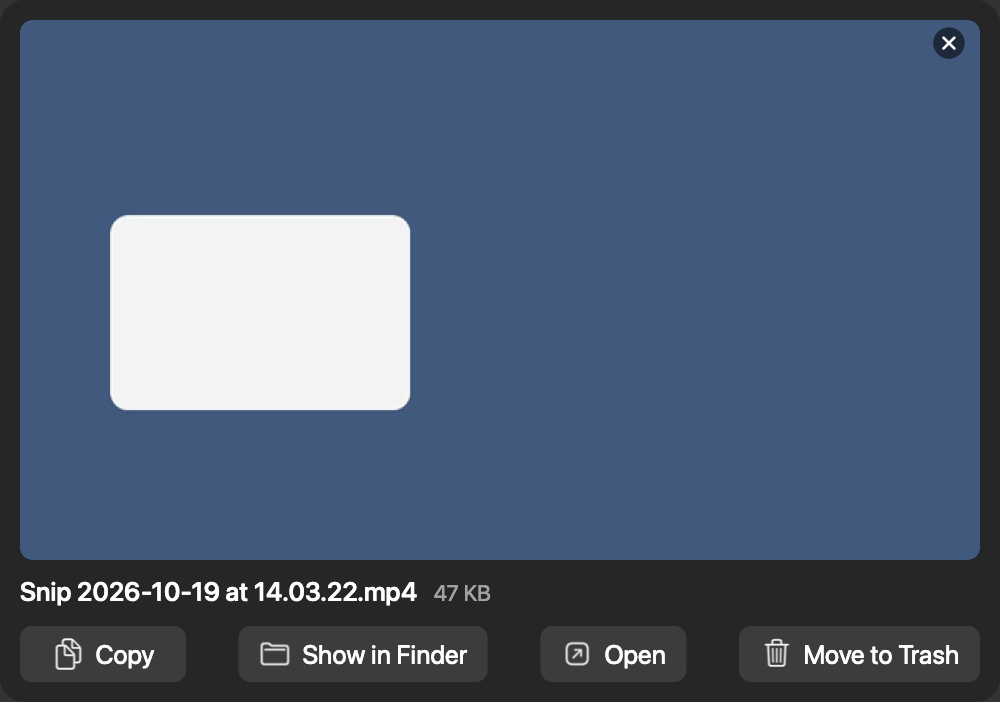
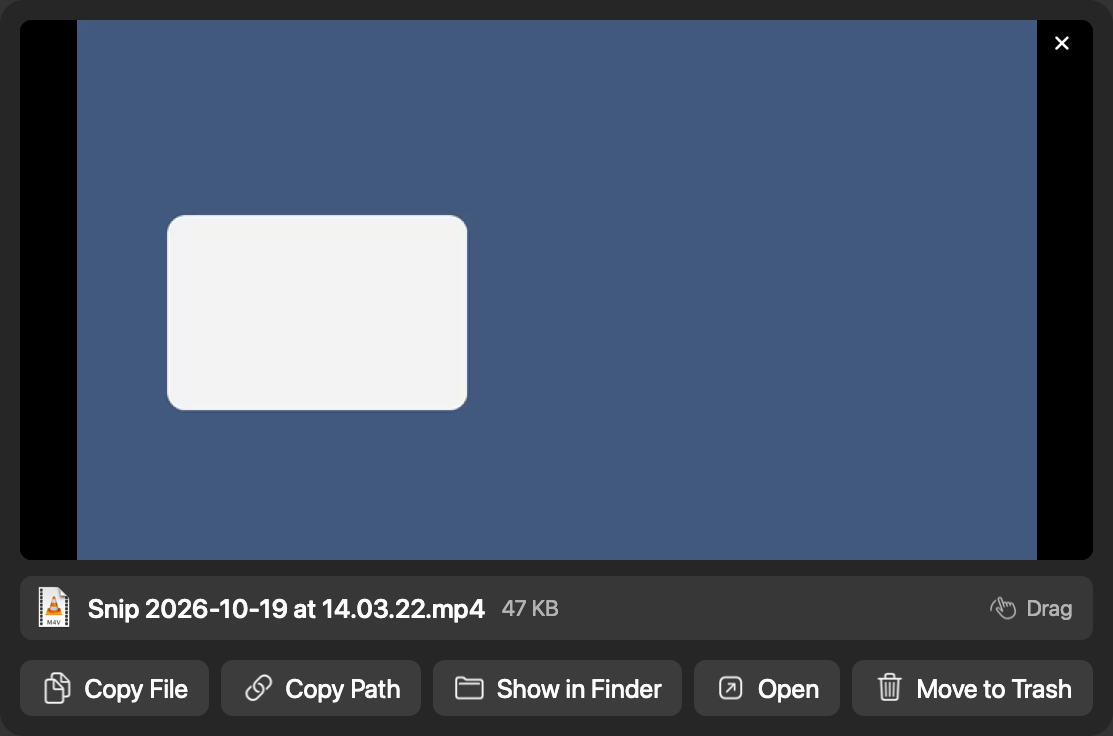
After-recording panel: Copy Path and a draggable file chip
- Copy Path puts the recording's full path on the clipboard as text; Copy is now Copy File
- The name and size row is a chip to drag the file straight into another app or a Finder
  folder (a copy), with an open-hand cursor and a "Drag" hint, so Finder isn't needed
- The video's drag and the chip share one drag source
- README: describe both, and re-render the after-recording image; its crop now finds the
  video by mostly-blue rows and columns, so the chip's icon isn't taken for video

Work item #2450

Changed region(s): [[0.0, 0.0299, 0.992, 0.8675], [0.217, 0.8974, 0.961, 0.9573], [0.031, 0.8974, 0.186, 0.9573]]

diff --git a/Sources/SnipUI/DonePanel.swift b/Sources/SnipUI/DonePanel.swift
@@ -2,8 +2,8 @@ import AppKit
 import AVKit
 import SnipCore
 
-/// After a recording: the video ready to play, its name and size, and Copy, Show in Finder, Open,
-/// Move to Trash. Floats beside the recorded area until ×, Escape or the next recording.
+/// After a recording: the video ready to play, the file to drag out, and Copy File, Copy Path, Show
+/// in Finder, Open, Move to Trash. Floats beside the recorded area until ×, Escape or the next recording.
 @MainActor
 final class DonePanel: NSObject {
     /// Becomes key when clicked, without activating Snip, so Escape reaches it.
@@ -147,13 +147,14 @@ final class DonePanel: NSObject {
     }
 }
 
-/// The panel's content: the video, its name and size, the fallback note if any, and the buttons.
+/// The panel's content: the video, the file chip (its name and size, dragged to drag the file), the
+/// fallback note if any, and the buttons.
 /// Built from a file alone, so it can be rendered off-screen:
 ///
 ///     let view = DonePanelView(file: url, videoSize: await DonePanelView.videoSize(of: url))
 ///     view.frame.size = view.fittingSize
 ///
-/// Dragging it anywhere but the preview and buttons drags its window.
+/// Dragging it anywhere but the preview, the file chip and the buttons drags its window.
 @MainActor
 final class DonePanelView: NSVisualEffectView {
     /// After × or Move to Trash.
@@ -165,8 +166,10 @@ final class DonePanelView: NSVisualEffectView {
     private let player: AVPlayer
     private let ui: UIScale
     private let preview: PreviewView
-    private let copyButton: ActionButton
-    private var copiedReset: Task<Void, Never>?
+    private let chip: FileChip
+    private let copyFileButton: ActionButton
+    private let copyPathButton: ActionButton
+    private var copiedReset: [ObjectIdentifier: Task<Void, Never>] = [:]
 
     /// `videoSize`: the recording's size in pixels, for its aspect ratio (see `videoSize(of:)`).
     /// `player`: one already playing `file`, to keep its position; by default a new one.
@@ -177,10 +180,15 @@ final class DonePanelView: NSVisualEffectView {
         let ui = scale ?? .current
         let player = player ?? AVPlayer(url: file)
         // The buttons first: their row sets the panel's narrowest width.
-        let copy = ActionButton(title: "Copy", symbol: "doc.on.doc", reserving: "Copied", ui: ui)
-        copyButton = copy
+        let copyFile = ActionButton(title: Self.copyFileLabel.title, symbol: Self.copyFileLabel.symbol,
+                                    reserving: "Copied", ui: ui)
+        let copyPath = ActionButton(title: Self.copyPathLabel.title, symbol: Self.copyPathLabel.symbol,
+                                    reserving: "Copied", ui: ui)
+        copyFileButton = copyFile
+        copyPathButton = copyPath
         let actions: [(ActionButton, Selector)] = [
-            (copy, #selector(DonePanelView.copyFile)),
+            (copyFile, #selector(DonePanelView.copyFile)),
+            (copyPath, #selector(DonePanelView.copyPath)),
             (ActionButton(title: "Show in Finder", symbol: "folder", ui: ui), #selector(DonePanelView.showInFinder)),
             (ActionButton(title: "Open", symbol: "arrow.up.forward.app", ui: ui), #selector(DonePanelView.openFile)),
             (ActionButton(title: "Move to Trash", symbol: "trash", ui: ui), #selector(DonePanelView.moveToTrash)),
@@ -194,6 +202,7 @@ final class DonePanelView: NSVisualEffectView {
         self.player = player
         self.ui = ui
         preview = PreviewView(file: file, player: player, ui: ui)
+        chip = FileChip(file: file, size: Self.formattedSize(of: file), ui: ui)
         super.init(frame: .zero)
 
         material = .hudWindow
@@ -206,24 +215,13 @@ final class DonePanelView: NSVisualEffectView {
 
         preview.onClose = { [weak self] in self?.onClose?() }
 
-        let name = NSTextField(labelWithString: file.lastPathComponent)
-        name.font = ui.font(13, weight: .medium)
-        name.lineBreakMode = .byTruncatingMiddle
-        name.setContentCompressionResistancePriority(.defaultLow, for: .horizontal)
-        let bytes = NSTextField(labelWithString: Self.formattedSize(of: file))
-        bytes.font = ui.font(11)
-        bytes.textColor = .secondaryLabelColor
-        bytes.setContentCompressionResistancePriority(.required, for: .horizontal)
-        let info = NSStackView(views: [name, bytes])
-        info.alignment = .firstBaseline
-        info.spacing = ui.metric(8)
 
         for (button, action) in actions {
             button.target = self
             button.action = action
         }
 
-        var rows: [NSView] = [preview, info]
+        var rows: [NSView] = [preview, chip]
         if let note {
             let label = NSTextField(wrappingLabelWithString: note)
             label.font = ui.font(11)
@@ -304,7 +302,7 @@ final class DonePanelView: NSVisualEffectView {
 
     override func hitTest(_ point: NSPoint) -> NSView? {
         guard let hit = super.hitTest(point) else { return nil }
-        return hit is NSButton || hit.isDescendant(of: preview) ? hit : self
+        return hit is NSButton || hit.isDescendant(of: preview) || hit.isDescendant(of: chip) ? hit : self
     }
 
     override func acceptsFirstMouse(for event: NSEvent?) -> Bool { true }
@@ -315,17 +313,34 @@ final class DonePanelView: NSVisualEffectView {
 
     // MARK: Buttons
 
-    /// Puts the file on the pasteboard, and says "Copied" on the button for a moment.
+    private static let copyFileLabel = (title: "Copy File", symbol: "doc.on.doc")
+    private static let copyPathLabel = (title: "Copy Path", symbol: "link")
+
+    /// Puts the file itself on the pasteboard, to paste into Finder, Slack or Mail.
     @objc private func copyFile() {
         let pasteboard = NSPasteboard.general
         pasteboard.clearContents()
         pasteboard.writeObjects([file as NSURL])
-        copyButton.show(title: "Copied", symbol: "checkmark")
-        copiedReset?.cancel()
-        copiedReset = Task { [weak self] in
+        showCopied(on: copyFileButton, then: Self.copyFileLabel)
+    }
+
+    /// Puts the file's full path on the pasteboard as text, to paste into a terminal or a chat.
+    @objc private func copyPath() {
+        let pasteboard = NSPasteboard.general
+        pasteboard.clearContents()
+        pasteboard.setString(file.path, forType: .string)
+        showCopied(on: copyPathButton, then: Self.copyPathLabel)
+    }
+
+    /// Says "Copied" on `button` for a moment, then puts its own label back.
+    private func showCopied(on button: ActionButton, then label: (title: String, symbol: String)) {
+        button.show(title: "Copied", symbol: "checkmark")
+        let key = ObjectIdentifier(button)
+        copiedReset[key]?.cancel()
+        copiedReset[key] = Task { [weak button] in
             try? await Task.sleep(for: .seconds(1.5))
-            guard !Task.isCancelled, let self else { return }
-            copyButton.show(title: "Copy", symbol: "doc.on.doc")
+            guard !Task.isCancelled, let button else { return }
+            button.show(title: label.title, symbol: label.symbol)
         }
     }
 
@@ -467,7 +482,8 @@ private final class PreviewView: NSView {
         close.isBordered = false
         close.toolTip = "Close"
 
-        let dragArea = FileDragArea(file: file, player: player, ui: ui)
+        let dragArea = FileDragView(file: file, ui: ui)
+        dragArea.onClick = { Self.togglePlayback(player) }
         // In this order, so the × is on top of the drag area and the drag area on top of the video.
         for view in [playerView, dragArea, close] {
             view.translatesAutoresizingMaskIntoConstraints = false
@@ -505,23 +521,33 @@ private final class PreviewView: NSView {
     }
 
     @objc private func closeClicked() { onClose?() }
+
+    private static func togglePlayback(_ player: AVPlayer) {
+        guard player.rate == 0 else {
+            player.pause()
+            return
+        }
+        if let item = player.currentItem, item.duration.isNumeric, item.currentTime() >= item.duration {
+            player.seek(to: .zero)
+        }
+        player.play()
+    }
 }
 
-/// Over the video: a click plays or pauses, a drag drags the file itself (as a file URL), so it
-/// drops into Finder, Slack, Mail or a browser upload.
+/// A drag drags the file itself (as a file URL), so it drops into Finder, Slack, Mail or a browser
+/// upload; a click calls `onClick`. Over the video, and under the file chip.
 @MainActor
-private final class FileDragArea: NSView, NSDraggingSource {
-    private let file: URL
-    private let player: AVPlayer
-    private let ui: UIScale
+private class FileDragView: NSView, NSDraggingSource {
+    var onClick: (() -> Void)?
+    let file: URL
+    let ui: UIScale
     /// The mouse-down of a click or drag in progress.
     private var mouseDownEvent: NSEvent?
     /// The first frame, for the drag image.
     private var thumbnail: NSImage?
 
-    init(file: URL, player: AVPlayer, ui: UIScale) {
+    init(file: URL, ui: UIScale) {
         self.file = file
-        self.player = player
         self.ui = ui
         super.init(frame: .zero)
         Task { [weak self] in
@@ -559,22 +585,109 @@ private final class FileDragArea: NSView, NSDraggingSource {
     override func mouseUp(with event: NSEvent) {
         guard mouseDownEvent != nil else { return }
         mouseDownEvent = nil
-        togglePlayback()
+        onClick?()
     }
 
     func draggingSession(_ session: NSDraggingSession, sourceOperationMaskFor context: NSDraggingContext) -> NSDragOperation {
         // A copy, so dropping into a Finder folder never moves the recording out of the output folder.
         context == .outsideApplication ? .copy : []
     }
+}
 
-    private func togglePlayback() {
-        guard player.rate == 0 else {
-            player.pause()
-            return
-        }
-        if let item = player.currentItem, item.duration.isNumeric, item.currentTime() >= item.duration {
-            player.seek(to: .zero)
-        }
-        player.play()
+/// The file as something to pick up: its icon, name and size on a rounded fill, with an open hand
+/// under the pointer. Drag it into another app instead of going through Finder.
+@MainActor
+private final class FileChip: FileDragView {
+    private var hovering = false {
+        didSet { needsDisplay = true }
+    }
+
+    init(file: URL, size: String, ui: UIScale) {
+        super.init(file: file, ui: ui)
+        let icon = NSImageView(image: NSWorkspace.shared.icon(forFile: file.path))
+        icon.imageScaling = .scaleProportionallyUpOrDown
+        let name = NSTextField(labelWithString: file.lastPathComponent)
+        name.font = ui.font(13, weight: .medium)
+        name.lineBreakMode = .byTruncatingMiddle
+        name.setContentCompressionResistancePriority(.defaultLow, for: .horizontal)
+        let bytes = NSTextField(labelWithString: size)
+        bytes.font = ui.font(11)
+        bytes.textColor = .secondaryLabelColor
+        bytes.setContentCompressionResistancePriority(.required, for: .horizontal)
+        let hand = NSImageView()
+        let symbol = NSImage(systemSymbolName: "hand.draw", accessibilityDescription: nil)
+        hand.image = symbol?.withSymbolConfiguration(.init(pointSize: ui.metric(12), weight: .regular)) ?? symbol
+        hand.contentTintColor = .secondaryLabelColor
+        hand.setContentCompressionResistancePriority(.required, for: .horizontal)
+        let drag = NSTextField(labelWithString: "Drag")
+        drag.font = ui.font(11)
+        drag.textColor = .secondaryLabelColor
+        drag.setContentCompressionResistancePriority(.required, for: .horizontal)
+
+        // The drag hint at the right edge.
+        let row = NSStackView()
+        row.setViews([icon, name, bytes], in: .leading)
+        row.setViews([hand, drag], in: .trailing)
+        row.alignment = .centerY
+        row.spacing = ui.metric(8)
+        row.setCustomSpacing(ui.metric(6), after: icon)
+        row.setCustomSpacing(ui.metric(4), after: hand)
+        row.edgeInsets = NSEdgeInsets(top: 0, left: ui.metric(6), bottom: 0, right: ui.metric(10))
+        row.translatesAutoresizingMaskIntoConstraints = false
+        addSubview(row)
+        NSLayoutConstraint.activate([
+            icon.widthAnchor.constraint(equalToConstant: ui.metric(22)),
+            icon.heightAnchor.constraint(equalToConstant: ui.metric(22)),
+            row.leadingAnchor.constraint(equalTo: leadingAnchor),
+            row.trailingAnchor.constraint(equalTo: trailingAnchor),
+            row.centerYAnchor.constraint(equalTo: centerYAnchor),
+            heightAnchor.constraint(equalToConstant: ui.metric(32)),
+        ])
+        toolTip = "Drag into any app, or onto a folder in Finder"
+        setAccessibilityLabel(file.lastPathComponent)
+    }
+
+    required init?(coder: NSCoder) { fatalError("init(coder:) is not used") }
+
+    // The icon and labels are parts of the chip, not targets of their own.
+    override func hitTest(_ point: NSPoint) -> NSView? {
+        frame.contains(point) ? self : nil
+    }
+
+    override func updateTrackingAreas() {
+        super.updateTrackingAreas()
+        trackingAreas.forEach(removeTrackingArea)
+        // Active always: the panel doesn't activate Snip, so it is rarely the key window.
+        addTrackingArea(NSTrackingArea(rect: .zero, options: [.mouseEnteredAndExited, .activeAlways, .inVisibleRect],
+                                       owner: self))
+    }
+
+    override func mouseEntered(with event: NSEvent) {
+        hovering = true
+        NSCursor.openHand.set()
+    }
+
+    override func mouseExited(with event: NSEvent) {
+        hovering = false
+        NSCursor.arrow.set()
+    }
+
+    override func mouseDown(with event: NSEvent) {
+        NSCursor.closedHand.set()
+        super.mouseDown(with: event)
+    }
+
+    override func mouseUp(with event: NSEvent) {
+        (hovering ? NSCursor.openHand : NSCursor.arrow).set()
+        super.mouseUp(with: event)
+    }
+
+    override var wantsUpdateLayer: Bool { false }
+
+    override func draw(_ dirtyRect: NSRect) {
+        let radius = ui.metric(6)
+        let path = NSBezierPath(roundedRect: bounds, xRadius: radius, yRadius: radius)
+        NSColor.labelColor.withAlphaComponent(hovering ? 0.16 : 0.08).setFill()
+        path.fill()
     }
 }

diff --git a/docs/images/src/snip.js b/docs/images/src/snip.js
@@ -168,11 +168,17 @@ window.donePanel = async (video) => {
   const data = pixels(await loadUI('done-panel'));
   const v = data.data;
   const at = (x, y) => { const i = (y * data.width + x) * 4; return [v[i], v[i + 1], v[i + 2]]; };
-  let x0 = Infinity, y0 = Infinity, x1 = -1, y1 = -1;
+  // The video is the frame's blue: rows and columns that are mostly blue, so a stray blue pixel
+  // elsewhere (the file chip's icon) doesn't count.
+  const rows = new Array(data.height).fill(0), cols = new Array(data.width).fill(0);
   for (let y = 0; y < data.height; y++) for (let x = 0; x < data.width; x++) {
     const [r, , b] = at(x, y);
-    if (b - r > 20) { x0 = Math.min(x0, x); y0 = Math.min(y0, y); x1 = Math.max(x1, x); y1 = Math.max(y1, y); }
+    if (b - r > 20) { rows[y]++; cols[x]++; }
   }
+  const first = (counts, min) => counts.findIndex((n) => n >= min);
+  const last = (counts, min) => counts.length - 1 - [...counts].reverse().findIndex((n) => n >= min);
+  const x0 = first(cols, data.height / 4), x1 = last(cols, data.height / 4);
+  const y0 = first(rows, data.width / 4), y1 = last(rows, data.width / 4);
   const frameColour = at(x1 - 4, y1 - 4);
   // The video's corners are rounded, 6 points (12 render pixels).
   const inVideo = (x, y) => {

diff --git a/README.md b/README.md
@@ -50,11 +50,12 @@ button.
 progress, then the file lands in `~/Movies/snip` as `Snip 2026-10-19 at 14.03.22.mp4` and is
 copied to the clipboard.
 
-**5. After recording,** a panel appears where the pill was. Click the video to play it, drag it
-into another app, or use **Copy**, **Show in Finder**, **Open** or **Move to Trash**. × or Escape
-closes the panel; the file stays.
+**5. After recording,** a panel appears where the pill was. Click the video to play it. Drag the
+file chip under it (or the video itself) straight into another app or onto a Finder folder, or use
+**Copy File**, **Copy Path** (the file's full path as text), **Show in Finder**, **Open** or
+**Move to Trash**. × or Escape closes the panel; the file stays.
 
-![The after-recording panel: a preview of the recording, its name and size, and Copy, Show in Finder, Open and Move to Trash buttons](docs/images/after-recording.webp)
+![The after-recording panel: a preview of the recording, a draggable chip with its name and size, and Copy File, Copy Path, Show in Finder, Open and Move to Trash buttons](docs/images/after-recording.webp)
 
 ### Shortcuts
 
